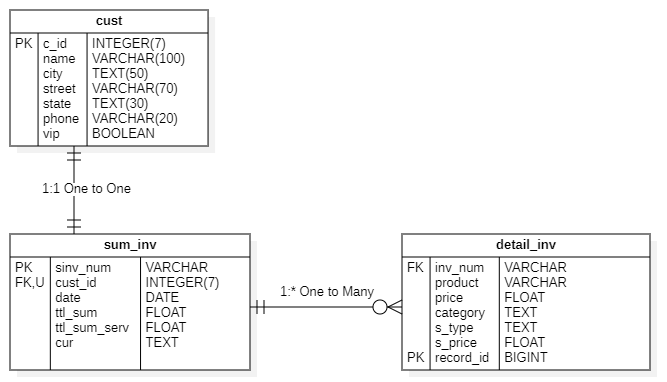
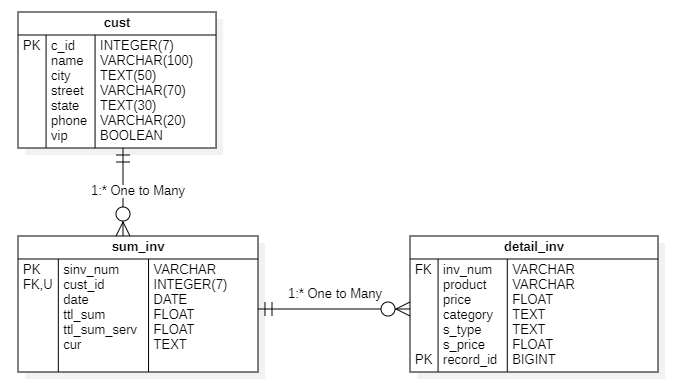
22-May-2025 - change of ERD + typos

Changed region(s): [[0.0, 0.0, 0.9895, 0.9791]]

diff --git a/Subpages/Function_2_DB_ERT.py b/Subpages/Function_2_DB_ERT.py
@@ -167,9 +167,10 @@ xml_data_euro = """<?xml version="1.0" encoding="UTF-8"?>
 </invoice>
 """
 
+# ========== DB and ERD description ==========
 st.write("# DB & ERD")
 st.write("(!) Currently, this application is **NOT** connected to any DB. Maybe one day in the future :).")
-st.write("This is for visibility how DB tables could like.")
+st.write("This is for visibility how DB tables could look like.")
 
 st.write("-----")
 st.write("#### Entity Relationship Diagram:")
